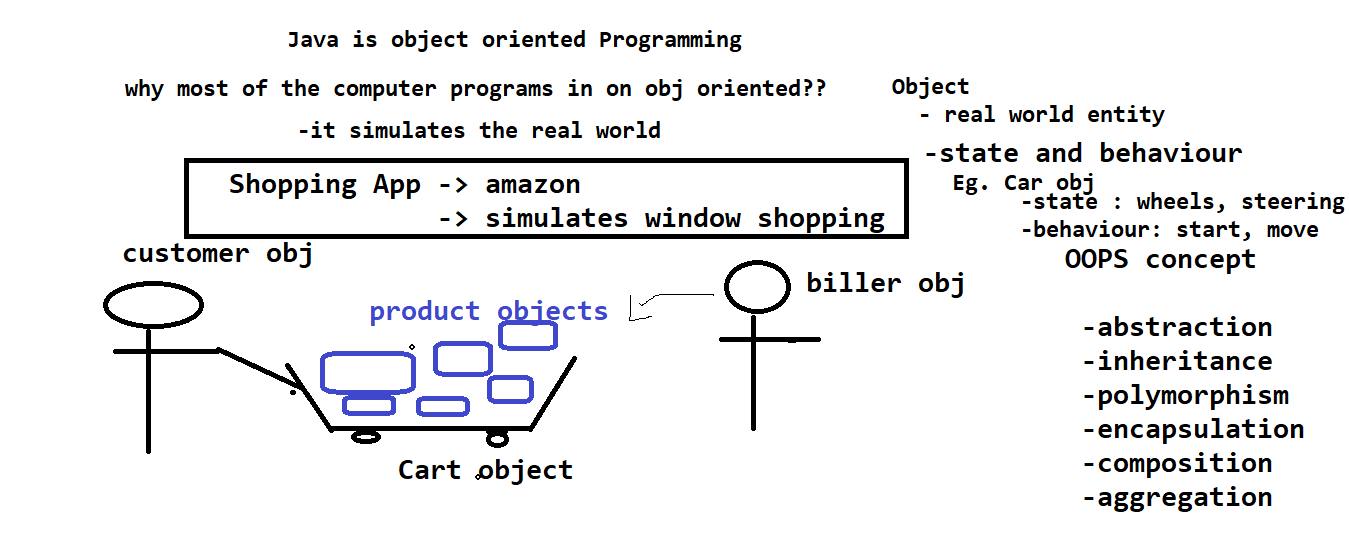
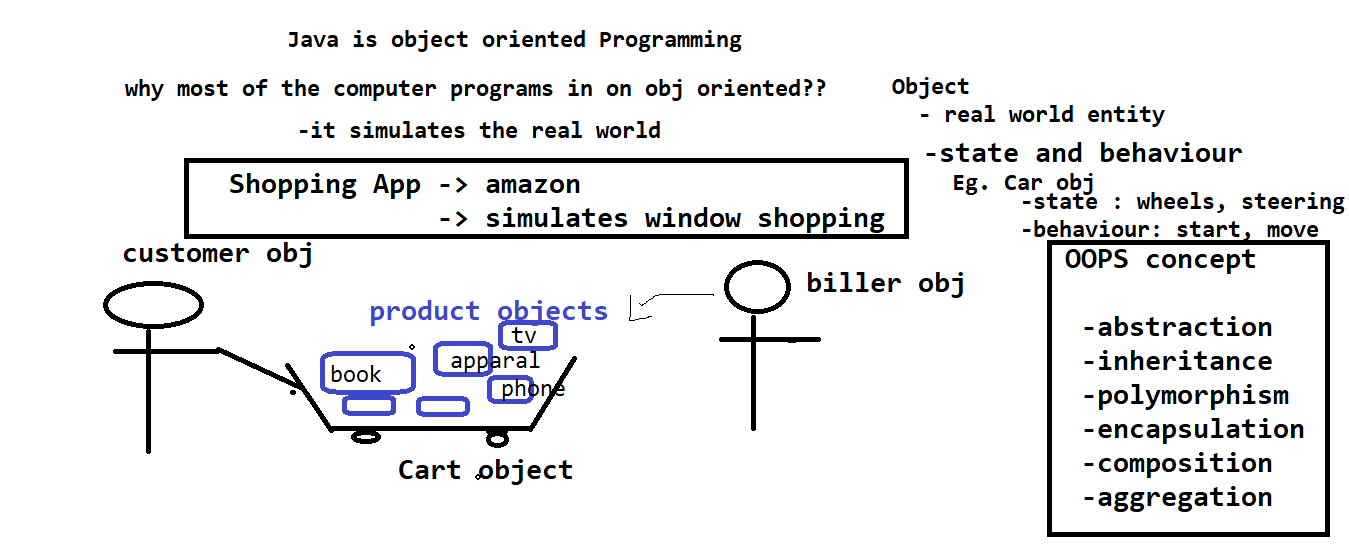
DAy2

Changed region(s): [[0.7784, 0.4375, 0.9963, 1.0], [0.3113, 0.5938, 0.4047, 0.75], [0.2491, 0.6562, 0.2802, 0.7188]]

diff --git a/codebase/CoreJava/src/com/geeks/oops/part2/Product.java b/codebase/CoreJava/src/com/geeks/oops/part2/Product.java
@@ -1,0 +1,49 @@
+package com.geeks.oops.part2;
+//just a blue print (not real)
+public  abstract class Product {
+ private  int productId;
+ private String prodName;
+ private float price;
+ 
+  //cannot run this class directly ....
+  void discount(int offerCode) {
+	  if(offerCode==10001  && price>=10000 ) {
+		  price=price-1000;
+		  System.out.println("Congratulations !!!! u have saved 1000 rs");
+	  }
+	  else
+		  System.out.println();
+  }
+
+  public void print() {
+	  System.out.println("Id : "+productId);
+	  System.out.println("Name : "+prodName);
+	  System.out.println("Price : "+price);
+  }
+  
+public int getProductId() {
+	return productId;
+}
+
+public void setProductId(int productId) {
+	this.productId = productId;
+}
+
+public String getProdName() {
+	return prodName;
+}
+
+public void setProdName(String prodName) {
+	this.prodName = prodName;
+}
+
+public float getPrice() {
+	return price;
+}
+
+public void setPrice(float price) {
+	this.price = price;
+}
+  
+  
+}

diff --git a/codebase/CoreJava/src/com/geeks/oops/part2/InheritanceApp.java b/codebase/CoreJava/src/com/geeks/oops/part2/InheritanceApp.java
@@ -1,0 +1,32 @@
+package com.geeks.oops.part2;
+
+public class InheritanceApp {
+	public static void main(String[] args) {
+	  // new Product(); //ERROR !!!!
+		Book book =new Book();
+		book.setProductId(991);
+		book.setProdName("Head first java");
+		book.setPrice(999.99f);
+		book.setAuthour("Kethy's Siera");
+		book.setGenre("Computers");
+		
+		Apparal ap1=new Apparal();
+		ap1.setProductId(992);
+		ap1.setProdName("T Shirt");
+		ap1.setPrice(1100.99f);
+		ap1.setSize("M");
+		ap1.setFabric("Cotton");
+		
+		Product myCart[]= {book,ap1};
+		System.out.println("****ITEMS in the CART *****");
+		for(Product p:myCart) {
+		//	System.out.println(p.getProductId()+"  "+p.getProdName()+"  "+p.getPrice());
+			//System.out.println("-------");
+			p.print();//pure polymorphism. has many behaviours
+			System.out.println("----------");
+		}
+		
+		
+	}
+
+}

diff --git a/codebase/CoreJava/src/com/geeks/oops/part2/InterfacesDemo.java b/codebase/CoreJava/src/com/geeks/oops/part2/InterfacesDemo.java
@@ -1,0 +1,30 @@
+package com.geeks.oops.part2;
+public class InterfacesDemo {
+public static void main(String[] args) {
+	final int x=10; //constnt value
+	//x++;
+	Class c="".getClass();
+	driving(new Nexon());
+	System.out.println("------------");
+	Verna verna=new Verna();
+	driving(verna);
+}
+   static void driving(Driveable driver) {
+	   //pure polymorphism .....
+	   driver.gear(); //driver not worried abt which car to drive .....
+   }
+}
+interface Driveable{
+	int MAX_SPEED=150;//public static final 
+	void gear(); //public abstract void gear();
+}
+class Nexon implements Driveable{
+	public void gear() {
+		System.out.println("Nexon Gear program gets started");
+	}
+}
+class Verna implements Driveable{
+	public void gear() {
+		System.out.println("Verna Gear program gets started");
+	}
+}

diff --git a/codebase/CoreJava/src/com/geeks/oops/part2/Book.java b/codebase/CoreJava/src/com/geeks/oops/part2/Book.java
@@ -1,0 +1,25 @@
+package com.geeks.oops.part2;
+
+public class Book extends Product {
+private String authour;
+private String genre;
+public String getAuthour() {
+	return authour;
+}
+public void setAuthour(String authour) {
+	this.authour = authour;
+}
+public String getGenre() {
+	return genre;
+}
+public void setGenre(String genre) {
+	this.genre = genre;
+}
+
+public void print() {
+	super.print();
+	System.out.println("authour : "+authour);
+	System.out.println("Genre : "+genre);
+}
+
+}

diff --git a/codebase/CoreJava/src/com/geeks/oops/part2/Apparal.java b/codebase/CoreJava/src/com/geeks/oops/part2/Apparal.java
@@ -1,0 +1,23 @@
+package com.geeks.oops.part2;
+
+public class Apparal extends Product {
+ private String size;
+ private String fabric;
+public String getSize() {
+	return size;
+}
+public void setSize(String size) {
+	this.size = size;
+}
+public String getFabric() {
+	return fabric;
+}
+public void setFabric(String fabric) {
+	this.fabric = fabric;
+}
+ 
+ public void print() {
+	 System.out.println("Size : "+size);
+	 System.out.println("Fabric "+fabric);
+ }
+}
